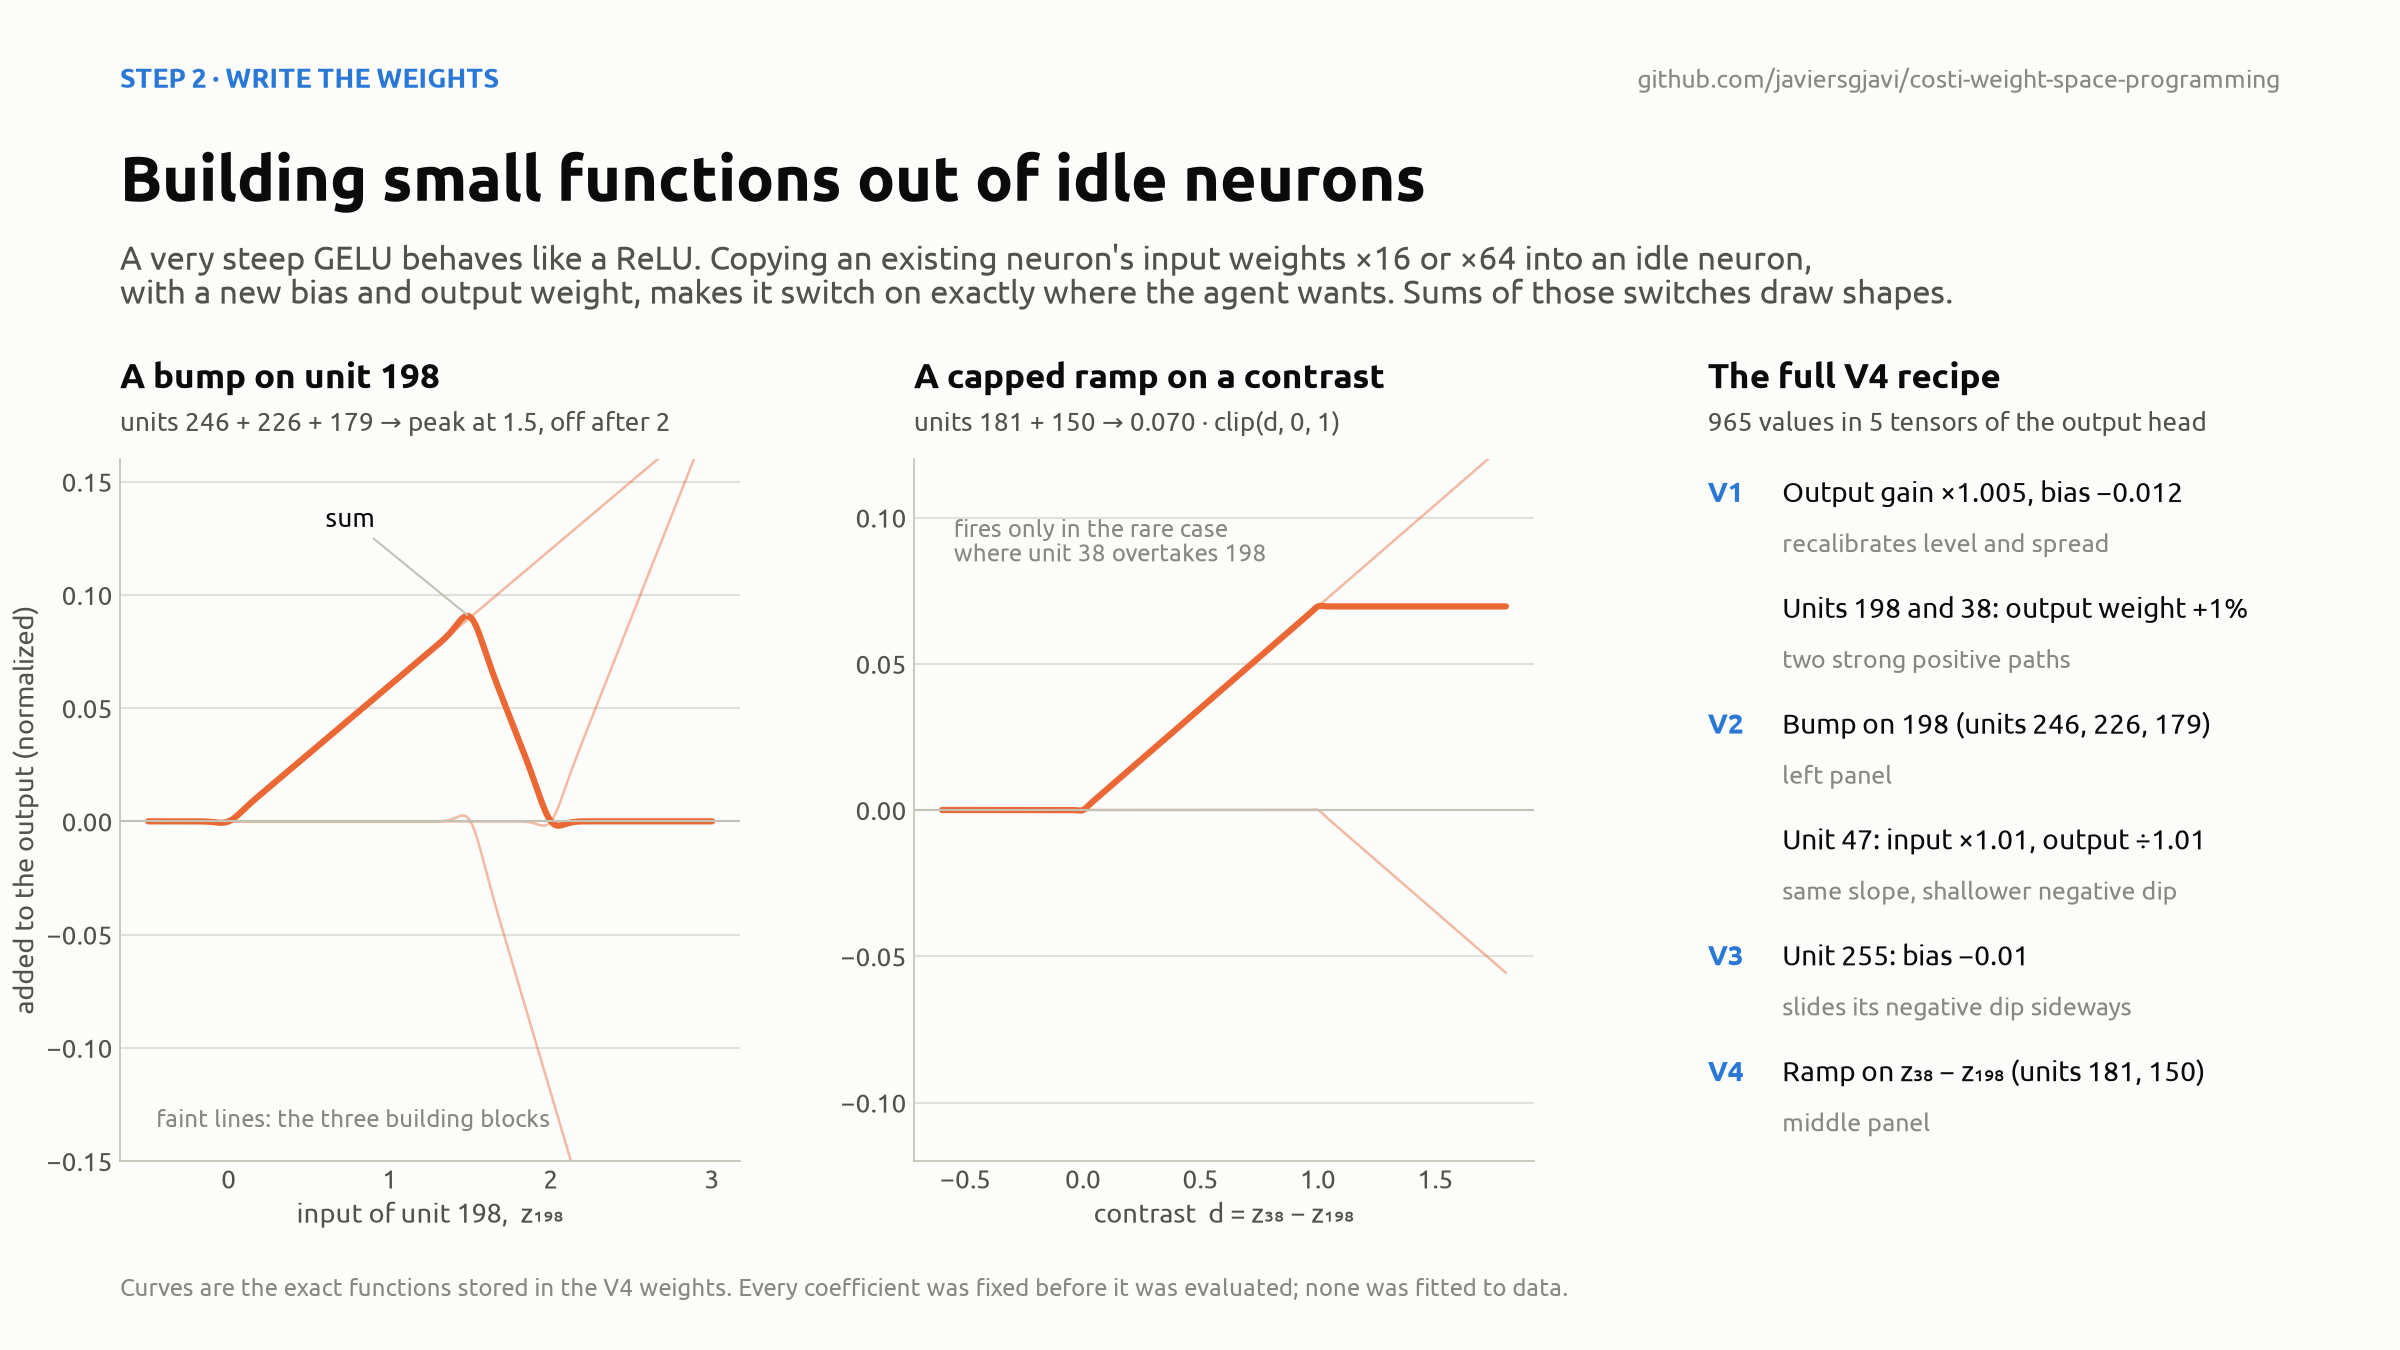
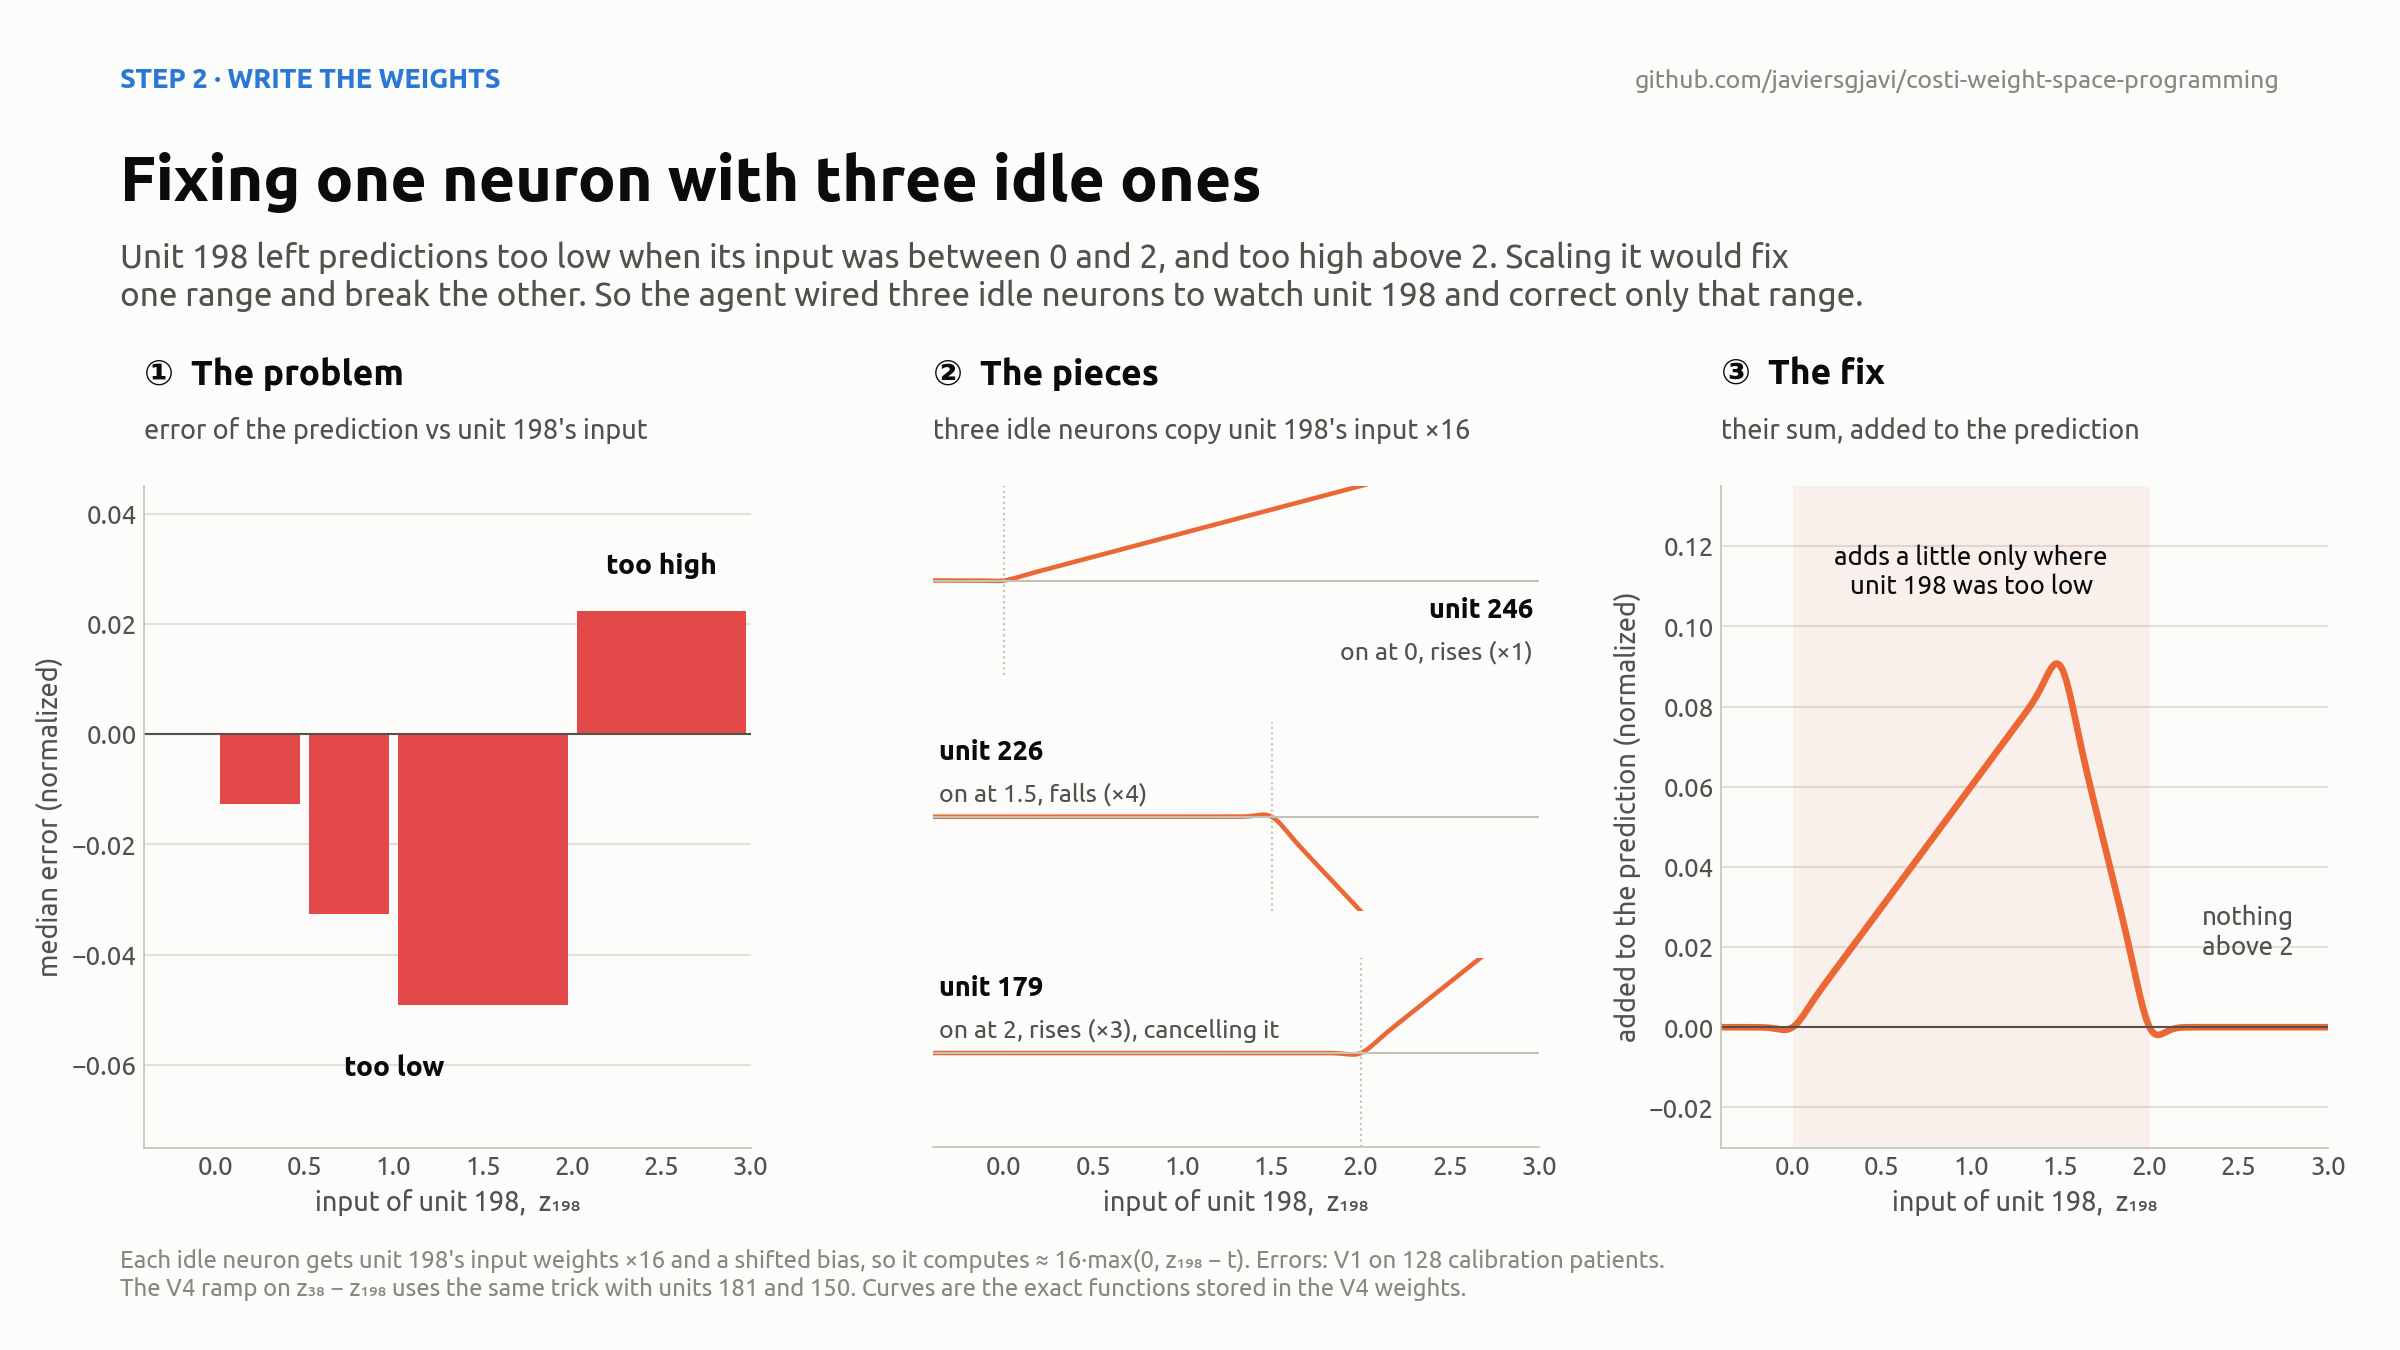
Redesign figure 3 as problem, pieces and fix
The figure now shows why the bump exists (unit 198's error by input,
exported to results/data/unit198_residuals_calibration.csv), the three
idle neurons as labelled switches, and their sum.

diff --git a/scripts/make_figures.py b/scripts/make_figures.py
@@ -224,81 +224,85 @@ def fig_read_weights():
 
 def fig_program_functions():
     head = pd.read_csv(DATA / "output_head_coefficients.csv").set_index("unit")
+    res = pd.read_csv(DATA / "unit198_residuals_calibration.csv")
     a = head["a_v4"]  # exact effective output weights of the reused neurons in V4
+    parts = [(246, 0.0, "on at 0", "rises (×1)"),
+             (226, 1.5, "on at 1.5", "falls (×4)"),
+             (179, 2.0, "on at 2", "rises (×3), cancelling it")]
 
     fig = canvas("Step 2 · Write the weights",
-                 "Building small functions out of idle neurons",
-                 "A very steep GELU behaves like a ReLU. Copying an existing neuron's input weights ×16 or ×64 "
-                 "into an idle neuron,\nwith a new bias and output weight, makes it switch on exactly where "
-                 "the agent wants. Sums of those switches draw shapes.")
+                 "Fixing one neuron with three idle ones",
+                 "Unit 198 left predictions too low when its input was between 0 and 2, and too high above 2. "
+                 "Scaling it would fix\none range and break the other. So the agent wired three idle neurons to "
+                 "watch unit 198 and correct only that range.")
 
-    gs = fig.add_gridspec(1, 3, left=0.05, right=0.97, bottom=0.14, top=0.66, wspace=0.28)
+    gs = fig.add_gridspec(1, 3, left=0.06, right=0.97, bottom=0.15, top=0.64, wspace=0.30)
+    xlim = (-0.4, 3.0)
+    heads = ["①  The problem", "②  The pieces", "③  The fix"]
+    subs = ["error of the prediction vs unit 198's input",
+            "three idle neurons copy unit 198's input ×16",
+            "their sum, added to the prediction"]
 
-    # (a) triangular bump on unit 198 from three reused neurons.
+    # ① residual error of V1, binned by z198.
     ax = fig.add_subplot(gs[0])
-    z = np.linspace(-0.5, 3.0, 800)
-    # Each reused neuron sees 16 * (z198 - t): a 16x copy of unit 198's input row with a shifted bias.
-    parts = [(246, 0.0), (226, 1.5), (179, 2.0)]
-    for u, t in parts:
-        ax.plot(z, a[u] * gelu(16 * (z - t)), color=ORANGE, lw=1.2, alpha=0.45)
-    bump = sum(a[u] * gelu(16 * (z - t)) for u, t in parts)
-    ax.plot(z, bump, color=ORANGE, lw=3)
-    ax.axhline(0, color=AXIS, lw=1)
+    for _, r in res.iterrows():
+        lo, hi = r.z_low, min(r.z_high, xlim[1])
+        ax.bar((lo + hi) / 2, r.median_normalized_error, width=(hi - lo) - 0.05, color=RED)
+    ax.axhline(0, color=INK_2, lw=1)
+    ax.text(1.0, -0.062, "too low", ha="center", fontsize=13.5, color=INK, weight="bold")
+    ax.text(2.5, 0.029, "too high", ha="center", fontsize=13.5, color=INK, weight="bold")
     style_axis(ax)
-    ax.set_ylim(-0.15, 0.16)
+    ax.set_xlim(*xlim)
+    ax.set_ylim(-0.075, 0.045)
+    ax.set_ylabel("median error (normalized)", fontsize=13)
     ax.set_xlabel("input of unit 198,  z₁₉₈", fontsize=13)
-    ax.set_ylabel("added to the output (normalized)", fontsize=13)
-    ax.set_title("A bump on unit 198", loc="left", fontsize=17, weight="bold", pad=34)
-    ax.text(0, 1.04, "units 246 + 226 + 179 → peak at 1.5, off after 2", transform=ax.transAxes,
-            fontsize=12.5, color=INK_2)
-    ax.annotate("sum", (1.5, bump[np.argmin(abs(z - 1.5))]), (0.6, 0.13), fontsize=12.5,
-                arrowprops=dict(arrowstyle="-", color=AXIS))
-    ax.text(-0.45, -0.135, "faint lines: the three building blocks", fontsize=11.5, color=MUTED)
 
-    # (b) capped ramp on the contrast z38 - z198 from two reused neurons.
-    ax = fig.add_subplot(gs[1])
-    d = np.linspace(-0.6, 1.8, 800)
-    # Units 181 and 150 see 64 * (z38 - z198) and 64 * (z38 - z198 - 1).
-    on = a[181] * gelu(64 * d)
-    off = a[150] * gelu(64 * (d - 1))
-    A = 64 * a[181]
-    ax.plot(d, on, color=ORANGE, lw=1.2, alpha=0.45)
-    ax.plot(d, off, color=ORANGE, lw=1.2, alpha=0.45)
-    ax.plot(d, on + off, color=ORANGE, lw=3)
-    ax.axhline(0, color=AXIS, lw=1)
+    # ② the three building blocks, one row each.
+    sub = gs[1].subgridspec(3, 1, hspace=0.25)
+    z = np.linspace(*xlim, 600)
+    for k, (u, t, when, what) in enumerate(parts):
+        axk = fig.add_subplot(sub[k])
+        yk = a[u] * gelu(16 * (z - t))
+        axk.plot(z, yk, color=ORANGE, lw=2.2)
+        axk.axvline(t, color=AXIS, lw=1, ls=":")
+        axk.axhline(0, color=AXIS, lw=1)
+        lim = 0.12
+        axk.set_ylim(-lim, lim)
+        axk.set_xlim(*xlim)
+        axk.set_yticks([])
+        axk.tick_params(length=0, labelsize=12.5)
+        axk.spines["left"].set_visible(False)
+        if k < 2:
+            axk.set_xticks([])
+            axk.spines["bottom"].set_visible(False)
+        else:
+            axk.set_xlabel("input of unit 198,  z₁₉₈", fontsize=13)
+        x_, ha_, y1, y2 = (0.99, "right", 0.30, 0.08) if k == 0 else (0.01, "left", 0.80, 0.58)
+        axk.text(x_, y1, f"unit {u}", transform=axk.transAxes, fontsize=13, weight="bold", color=INK, ha=ha_)
+        axk.text(x_, y2, f"{when}, {what}", transform=axk.transAxes, fontsize=12, color=INK_2, ha=ha_)
+
+    # ③ the sum.
+    ax = fig.add_subplot(gs[2])
+    bump = sum(a[u] * gelu(16 * (z - t)) for u, t, *_ in parts)
+    ax.axvspan(0, 2, color=ORANGE, alpha=0.08, lw=0)
+    ax.plot(z, bump, color=ORANGE, lw=3.2)
+    ax.axhline(0, color=INK_2, lw=1)
+    ax.text(1.0, 0.108, "adds a little only where\nunit 198 was too low", ha="center", fontsize=12.5, color=INK)
+    ax.text(2.55, 0.018, "nothing\nabove 2", ha="center", fontsize=12.5, color=INK_2)
     style_axis(ax)
-    ax.set_ylim(-0.12, 0.12)
-    ax.set_xlabel("contrast  d = z₃₈ − z₁₉₈", fontsize=13)
-    ax.set_title("A capped ramp on a contrast", loc="left", fontsize=17, weight="bold", pad=34)
-    ax.text(0, 1.04, f"units 181 + 150 → {A:.3f} · clip(d, 0, 1)", transform=ax.transAxes,
-            fontsize=12.5, color=INK_2)
-    ax.text(-0.55, 0.085, "fires only in the rare case\nwhere unit 38 overtakes 198", fontsize=11.5,
-            color=MUTED)
+    ax.set_xlim(*xlim)
+    ax.set_ylim(-0.03, 0.135)
+    ax.set_ylabel("added to the prediction (normalized)", fontsize=13)
+    ax.set_xlabel("input of unit 198,  z₁₉₈", fontsize=13)
 
-    # (c) the full V4 recipe, as a card.
-    card = fig.add_subplot(gs[2])
-    card.axis("off")
-    card.set_title("The full V4 recipe", loc="left", fontsize=17, weight="bold", pad=34)
-    card.text(0, 1.04, "965 values in 5 tensors of the output head", transform=card.transAxes,
-              fontsize=12.5, color=INK_2)
-    steps = [
-        ("V1", "Output gain ×1.005, bias −0.012", "recalibrates level and spread"),
-        ("", "Units 198 and 38: output weight +1%", "two strong positive paths"),
-        ("V2", "Bump on 198 (units 246, 226, 179)", "left panel"),
-        ("", "Unit 47: input ×1.01, output ÷1.01", "same slope, shallower negative dip"),
-        ("V3", "Unit 255: bias −0.01", "slides its negative dip sideways"),
-        ("V4", "Ramp on z₃₈ − z₁₉₈ (units 181, 150)", "middle panel"),
-    ]
-    y = 0.97
-    for tag, what, why in steps:
-        if tag:
-            card.text(0.0, y, tag, fontsize=13.5, weight="bold", color=BLUE, transform=card.transAxes, va="top")
-        card.text(0.12, y, what, fontsize=13.5, color=INK, transform=card.transAxes, va="top")
-        card.text(0.12, y - 0.075, why, fontsize=12, color=MUTED, transform=card.transAxes, va="top")
-        y -= 0.165
+    for k, axh in enumerate([fig.axes[0], fig.axes[1], fig.axes[4]]):
+        pos = axh.get_position()
+        fig.text(pos.x0, 0.715, heads[k], fontsize=17, weight="bold")
+        fig.text(pos.x0, 0.675, subs[k], fontsize=13, color=INK_2)
 
-    footer(fig, "Curves are the exact functions stored in the V4 weights. Every coefficient was fixed before it "
-                "was evaluated; none was fitted to data.")
+    footer(fig, "Each idle neuron gets unit 198's input weights ×16 and a shifted bias, so it computes ≈ 16·max(0, z₁₉₈ − t). "
+                "Errors: V1 on 128 calibration patients.\nThe V4 ramp on z₃₈ − z₁₉₈ uses the same trick with units "
+                "181 and 150. Curves are the exact functions stored in the V4 weights.")
     save(fig, "03_write_the_weights.png")
 
 

diff --git a/README.md b/README.md
@@ -114,15 +114,15 @@ so that `z₂₄₆ = 16 · (z₁₉₈ − t)`. Unit 246 now stays at zero whil
 | 226 | 1.5 | −4 | +1 − 4 = −3: falls |
 | 179 | 2 | +3 | −3 + 3 = 0: flat, switched off |
 
-The result is a small triangle: it adds a little to the prediction (at most about 0.09 in normalized units) while `z₁₉₈` is between 0 and 2, peaks at 1.5, and adds nothing anywhere else. It is the orange curve in the left panel below.
+The result is a small triangle: it adds a little to the prediction (at most about 0.09 in normalized units) while `z₁₉₈` is between 0 and 2, peaks at 1.5, and adds nothing anywhere else. It is the orange curve in the right panel of the figure below.
 
 **Why not just scale unit 198?** The diagnosis said unit 198 left predictions too low for `z₁₉₈` between 0 and 2, but too high above 2. Raising its output weight would fix the first range and make the second worse. The bump acts only where the error was. It is as if the agent had added `if 0 < z₁₉₈ < 2: add a little` to the model, written directly into its weights.
 
 **The ramp uses the same trick on a difference.** Units 181 and 150 copy `64 · (input weights of 38 − input weights of 198)`, so they watch `d = z₃₈ − z₁₉₈`. The first switches on at `d = 0` and the second cancels it at `d = 1`, which gives `0.070 · clip(d, 0, 1)`. Normally `z₃₈ < z₁₉₈`, so the ramp only acts in the rare cases where unit 38 overtakes 198.
 
-![Building small functions out of idle neurons](results/figures/03_write_the_weights.png)
+![Fixing one neuron with three idle ones](results/figures/03_write_the_weights.png)
 
-Left and middle: the exact bump and ramp stored in the V4 weights, with their building blocks as faint lines.
+Left: unit 198's error on calibration patients, by the value of its input. Middle: the three idle neurons, each switching on at its own threshold. Right: their sum, the exact correction stored in the V4 weights.
 
 The complete final recipe (V4) has six edits, applied in four validated versions:
 

diff --git a/results/README.md b/results/README.md
@@ -8,7 +8,7 @@ Rebuild them all with `python scripts/make_figures.py`. Figures 1–6 are 2400×
 |---|---|
 | `01_headline.png` | the headline numbers |
 | `02_read_the_weights.png` | effective weight of each of the 256 output-head neurons; 176 are idle |
-| `03_write_the_weights.png` | the bump and the ramp programmed into idle neurons, plus the full V4 recipe |
+| `03_write_the_weights.png` | how three idle neurons fix unit 198: its error by input, the three switches, and their sum |
 | `04_search.png` | all 17 hypotheses on the 128-patient screening cohorts: kept, rejected, pending |
 | `05_progress.png` | MAE and MSE reduction at each of the 17 iterations, with the accepted model as a staircase and the final test numbers |
 | `06_where_the_gain_comes_from.png` | gain by variable group and by version (V1 vs V4) |
@@ -23,6 +23,7 @@ Rebuild them all with `python scripts/make_figures.py`. Figures 1–6 are 2400×
 | `calibration_512_vs_v3.csv` | later candidates on 512 calibration patients vs V3, with 95% intervals |
 | `per_variable_test.csv` | test MAE/MSE per variable, original vs V4 |
 | `per_group_test.json` | test MAE/MSE for physiological vs context variables, with each group's share of the reduction |
+| `unit198_residuals_calibration.csv` | V1's median error by range of unit 198's input, on 128 calibration patients (the diagnosis behind the bump) |
 | `output_head_coefficients.csv` | for each of the 256 head neurons: effective output weight, bias and input norm, original vs V4, and its role in the edit |
 
 ## `evidence/`
